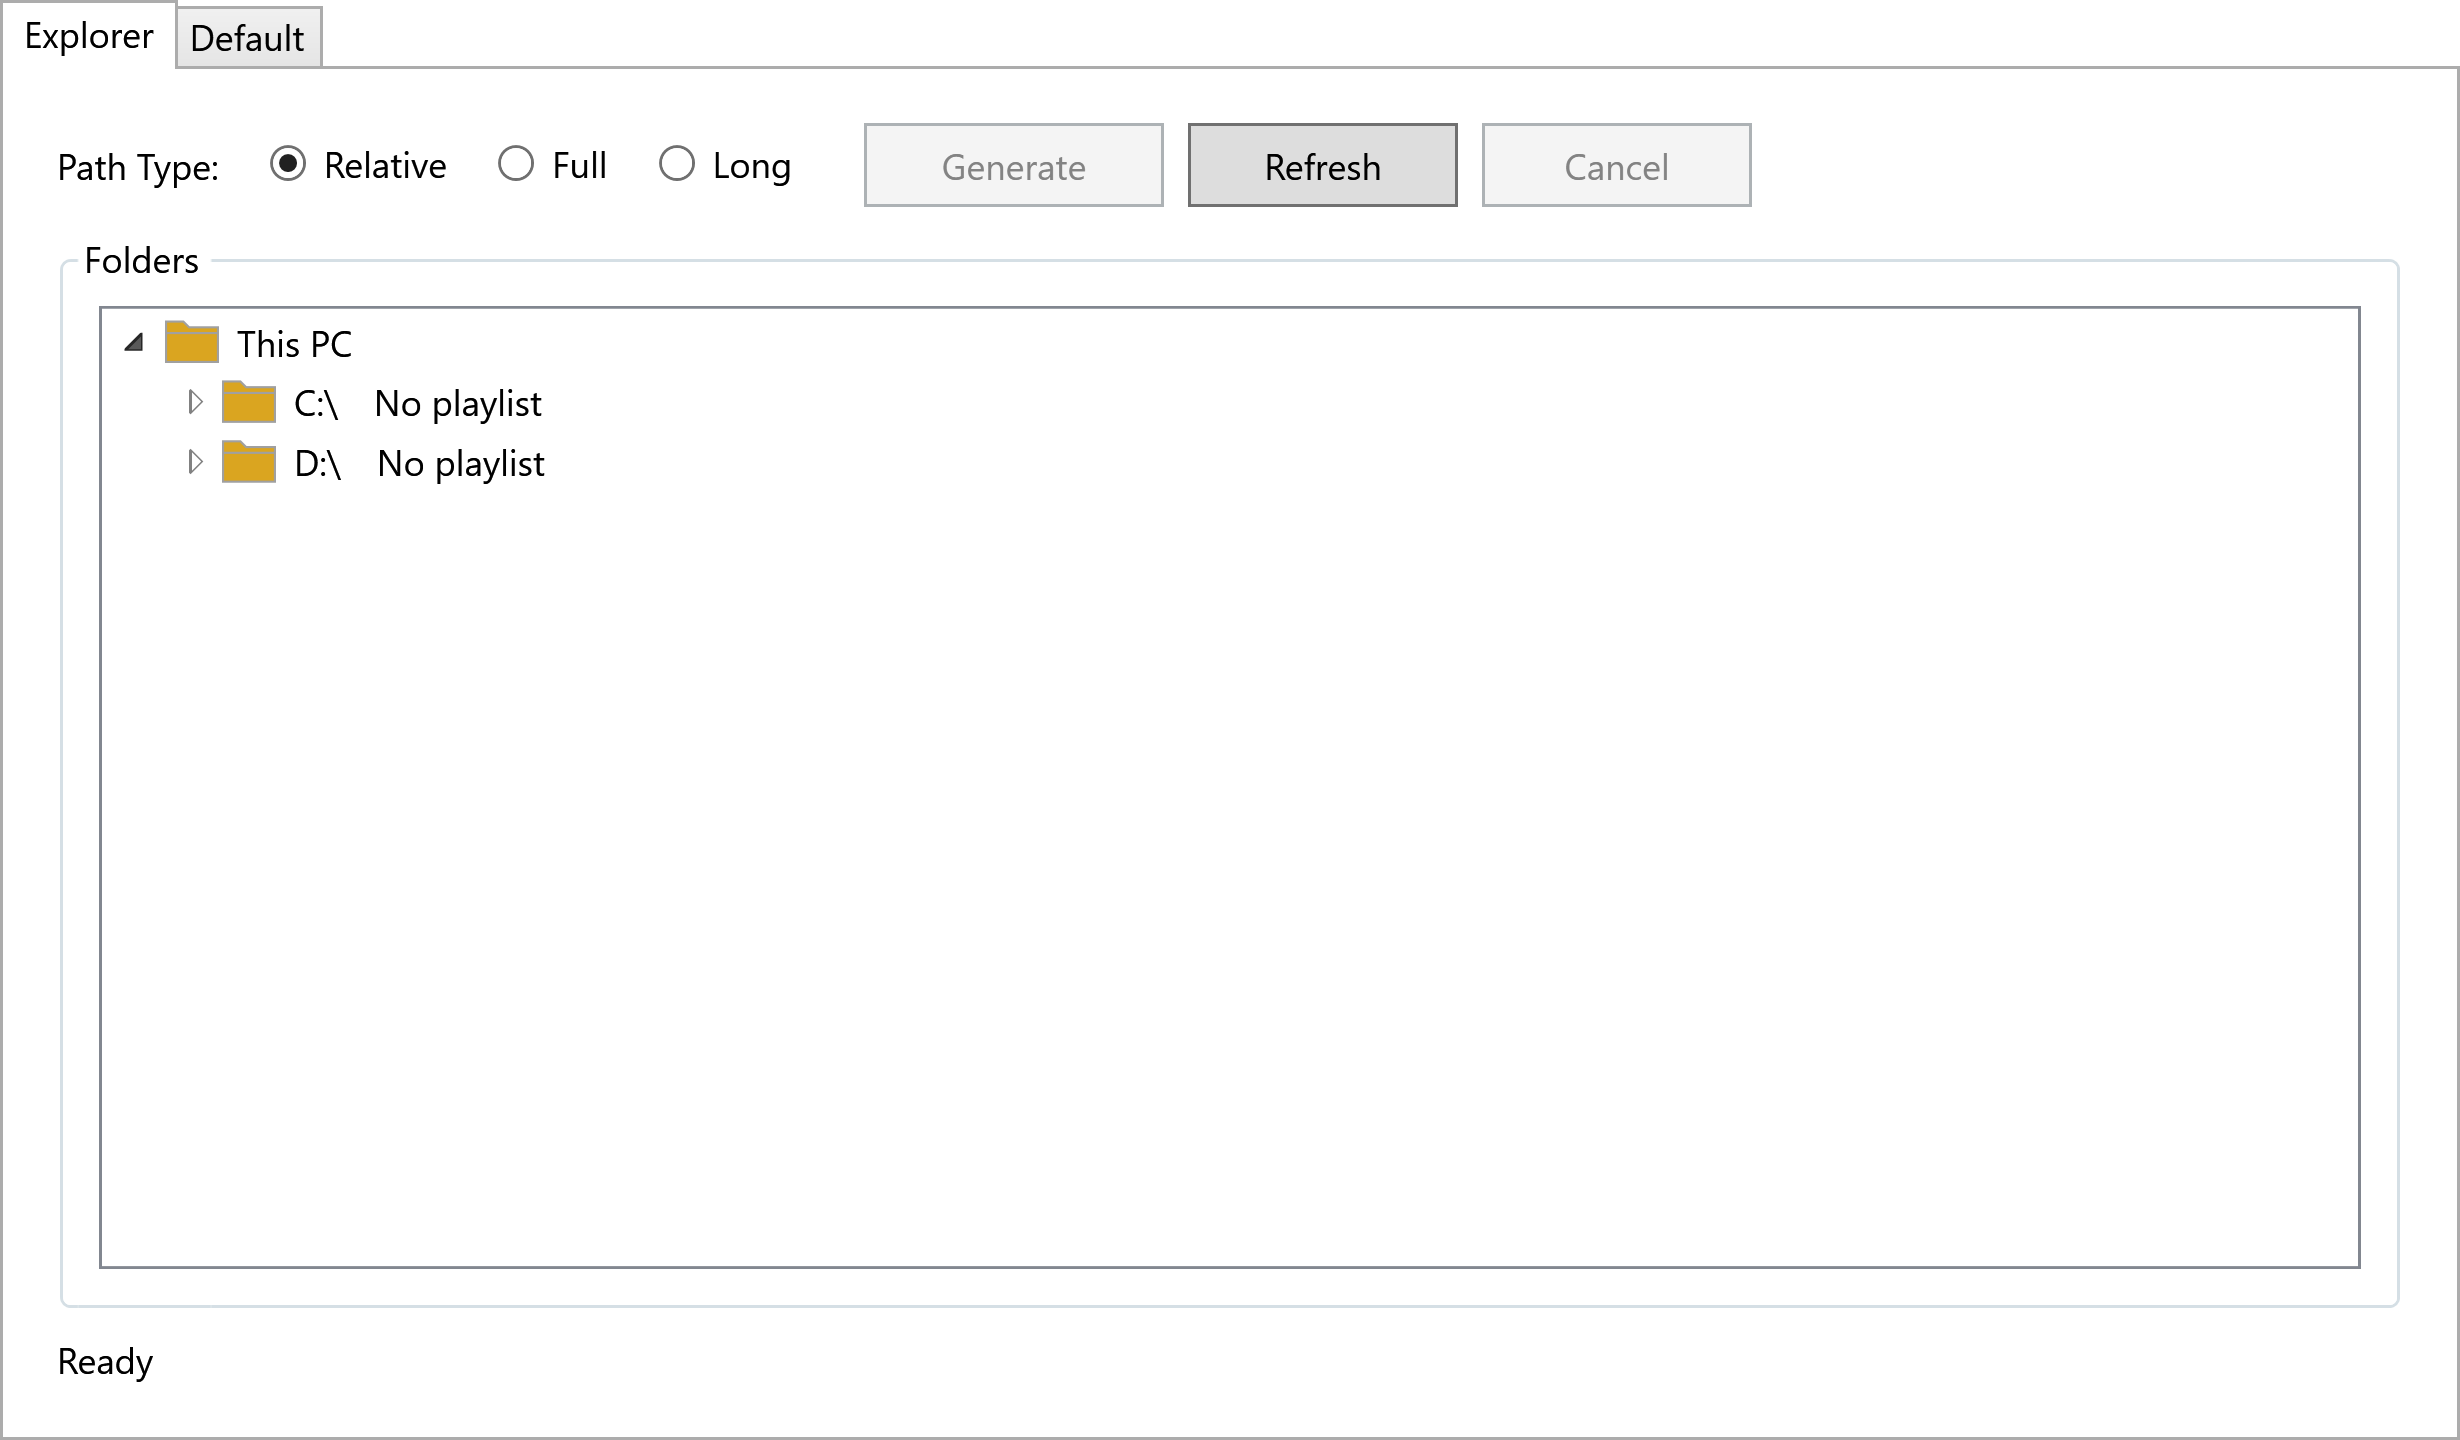
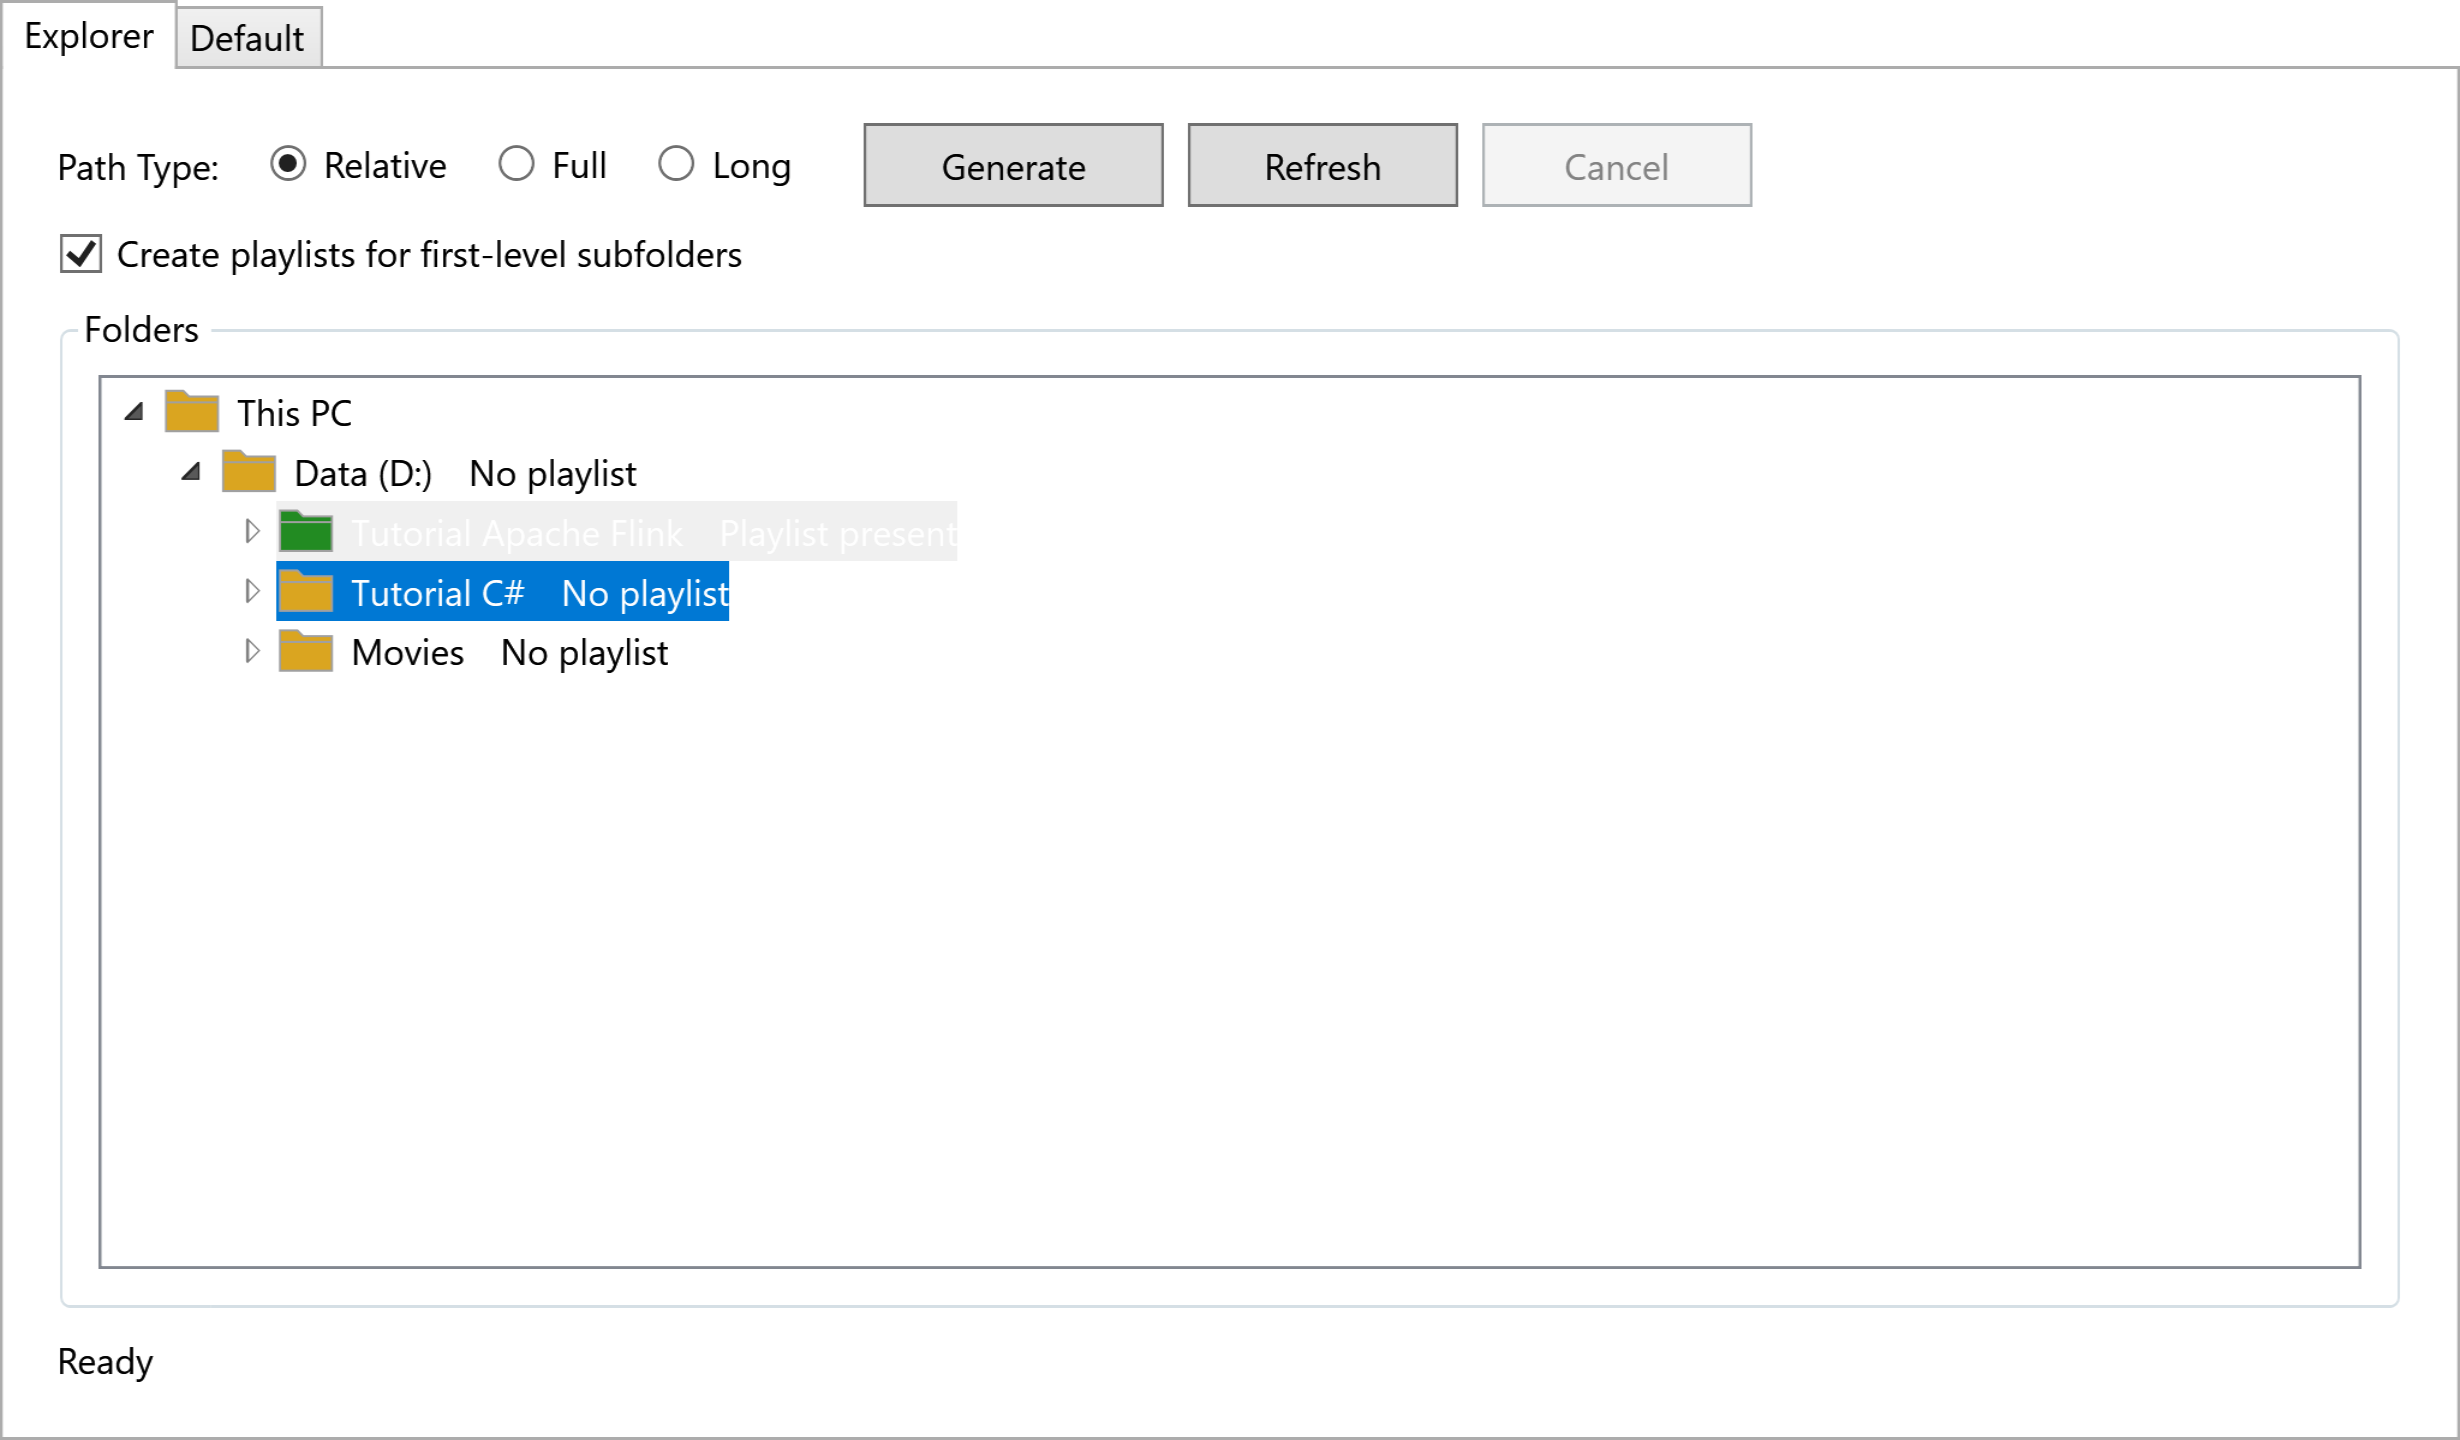
docs: document multi-root playlist generation

Changed region(s): [[0.0309, 0.1562, 0.3089, 0.4688], [0.3707, 0.0938, 0.4325, 0.125]]

diff --git a/MpcplBuilder.Wpf/README.md b/MpcplBuilder.Wpf/README.md
@@ -12,20 +12,21 @@ Browse for a video folder, choose a path type, and preview the playlist.
 
 ### Explorer Tab
 
-Navigate drives and folders from This PC and generate a playlist for the selected folder.
+Navigate drives and folders from This PC, select one or more roots, and generate playlists in a single batch.
 
-![MPC Playlist Builder Explorer tab with folder navigation and playlist generation controls](docs/images/explorer-tab.png)
+![MPC Playlist Builder Explorer tab with multi-selected folders and first-level subfolder generation](docs/images/explorer-tab.png)
 
 ## Features
 
 ### Explorer Tab
 
 - Starts at **This PC** and shows drives and folders only. Expand a folder to load its immediate children; expanding does not recursively scan its subtree.
-- Select one active folder at a time. Both green and yellow folders can be selected. A **green** folder icon means `Playlist.mpcpl` exists directly in that folder; **yellow** means it does not. A playlist in a descendant does not change its parent's icon.
+- Select one folder with a normal click, toggle additional roots with **Ctrl+click**, or select a visible range with **Shift+click**. Both green and yellow folders can be selected. A **green** folder icon means `Playlist.mpcpl` exists directly in that folder; **yellow** means it does not. A playlist in a descendant does not change its parent's icon.
 - Uses **Relative Path** by default. **Full Path** and **Long Path** are also available.
-- **Generate** recursively includes supported videos beneath the selected folder and writes `Playlist.mpcpl` in that folder. The icon updates when generation succeeds.
-- **Refresh** reloads drives and folder status, retaining the expanded folders and selection when those paths still exist.
-- If the playlist already exists, **Generate** asks for overwrite confirmation. Choosing **No** leaves the file unchanged.
+- **Generate** recursively includes supported videos beneath every selected root and writes `Playlist.mpcpl` in each root. Folders without supported videos are skipped while the remaining batch continues.
+- Enable **Create playlists for first-level subfolders** to treat each direct child of every selected folder as a playlist root. Files directly inside the selected parent are ignored in this mode, while each child is still scanned recursively.
+- **Refresh** reloads drives and folder status, retaining expanded folders and all selections when those paths still exist.
+- If playlists already exist in a multi-folder batch, **Generate** asks for overwrite confirmation once. Choosing **Yes** overwrites all existing playlists; **No** skips existing playlists and still creates missing ones.
 
 ### Default Tab
 
@@ -78,10 +79,12 @@ Subtitles are matched automatically when their filenames correspond to the video
 
 ### Explorer
 
-1. Open **Explorer**, expand **This PC**, then expand drives and folders to find the folder you want. Select that folder; only one folder is active.
+1. Open **Explorer**, expand **This PC**, then expand drives and folders to find the roots you want. Click one folder normally, use **Ctrl+click** to toggle more folders, or use **Shift+click** to select a visible range.
 2. Choose **Relative Path** (the default), **Full Path**, or **Long Path**.
-3. Click **Generate**. The app scans the selected folder recursively and saves `Playlist.mpcpl` there. If the file already exists, confirm or cancel the overwrite prompt.
-4. Click **Refresh** to reload drives, folders, and direct playlist status. Existing paths retain their expanded and selected state.
+3. Optionally enable **Create playlists for first-level subfolders**. When enabled, every direct child of each selected folder becomes a separate root; when disabled, each selected folder itself is a root.
+4. Click **Generate**. The app scans every resulting root recursively and saves `Playlist.mpcpl` in that root. Folders without supported videos are skipped automatically.
+5. If one or more playlists already exist, choose **Yes** once to overwrite all of them or **No** to skip them while still generating missing playlists.
+6. Click **Refresh** to reload drives, folders, and direct playlist status. Existing paths retain their expanded and selected state.
 
 ### Default
 
@@ -111,8 +114,9 @@ Subtitles are matched automatically when their filenames correspond to the video
 
 | Button | Function |
 | --- | --- |
-| **Generate** | Creates `Playlist.mpcpl` for the selected folder and its descendant videos. |
-| **Refresh** | Reloads drives, folders, and direct playlist status. |
+| **Generate** | Creates `Playlist.mpcpl` for every selected root, or for their first-level subfolders when that option is enabled. |
+| **Refresh** | Reloads drives, folders, and direct playlist status while preserving available selections and expanded paths. |
+| **Cancel** | Cancels the entire active generation batch. |
 
 ## Default Tab Status Indicators
 
